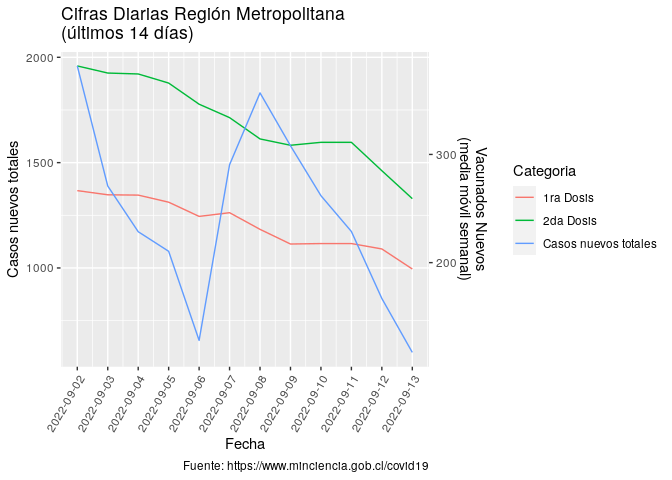
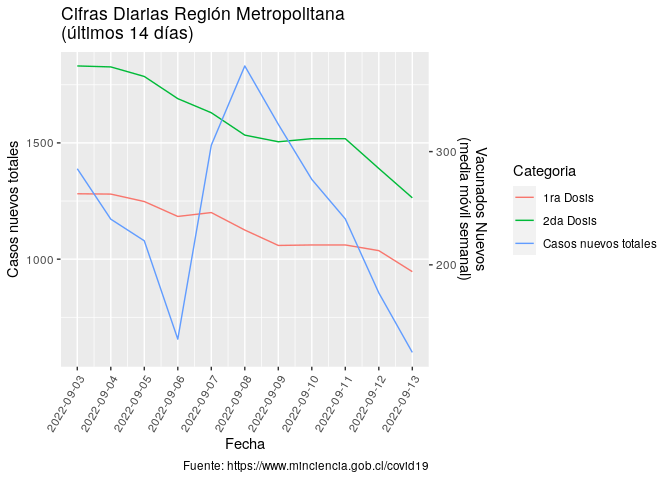
Re-build Rmarkdown files

diff --git a/README.md b/README.md
@@ -3,7 +3,7 @@
 
 Ejemplo de uso de total\_casos de COVID recopilados por el Ministerio de
 Ciencia de Chile <https://www.minciencia.gob.cl/covid19>. Última
-actualización: 2022-09-15
+actualización: 2022-09-16
 
 ## Visualización desde el comienzo de la pandemia
 
